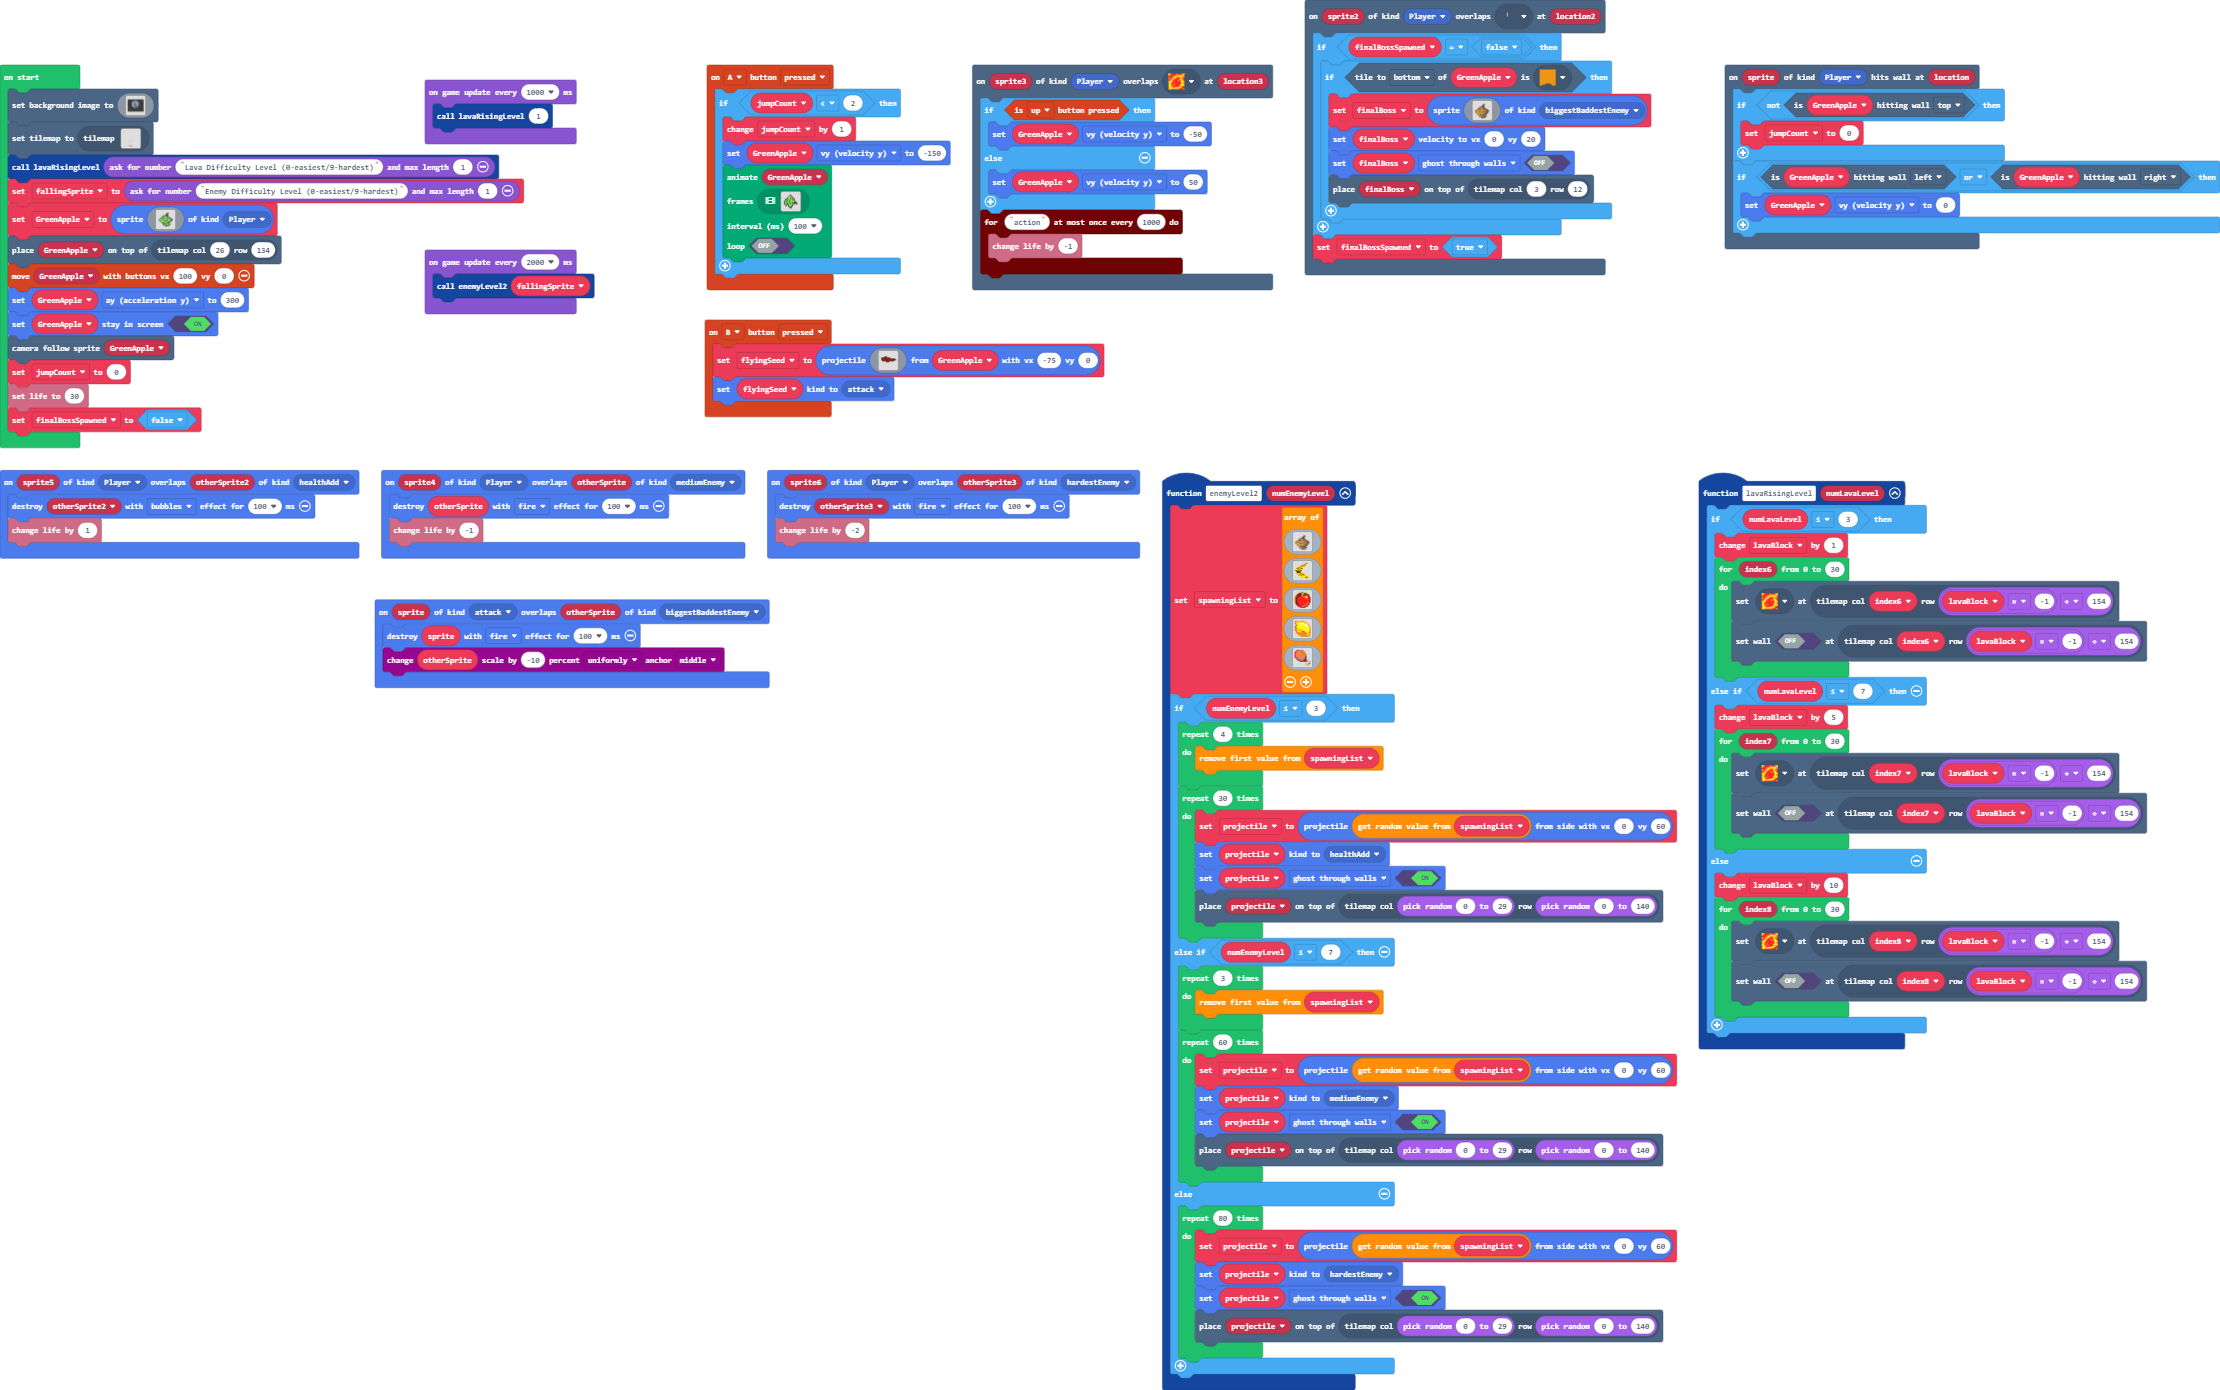
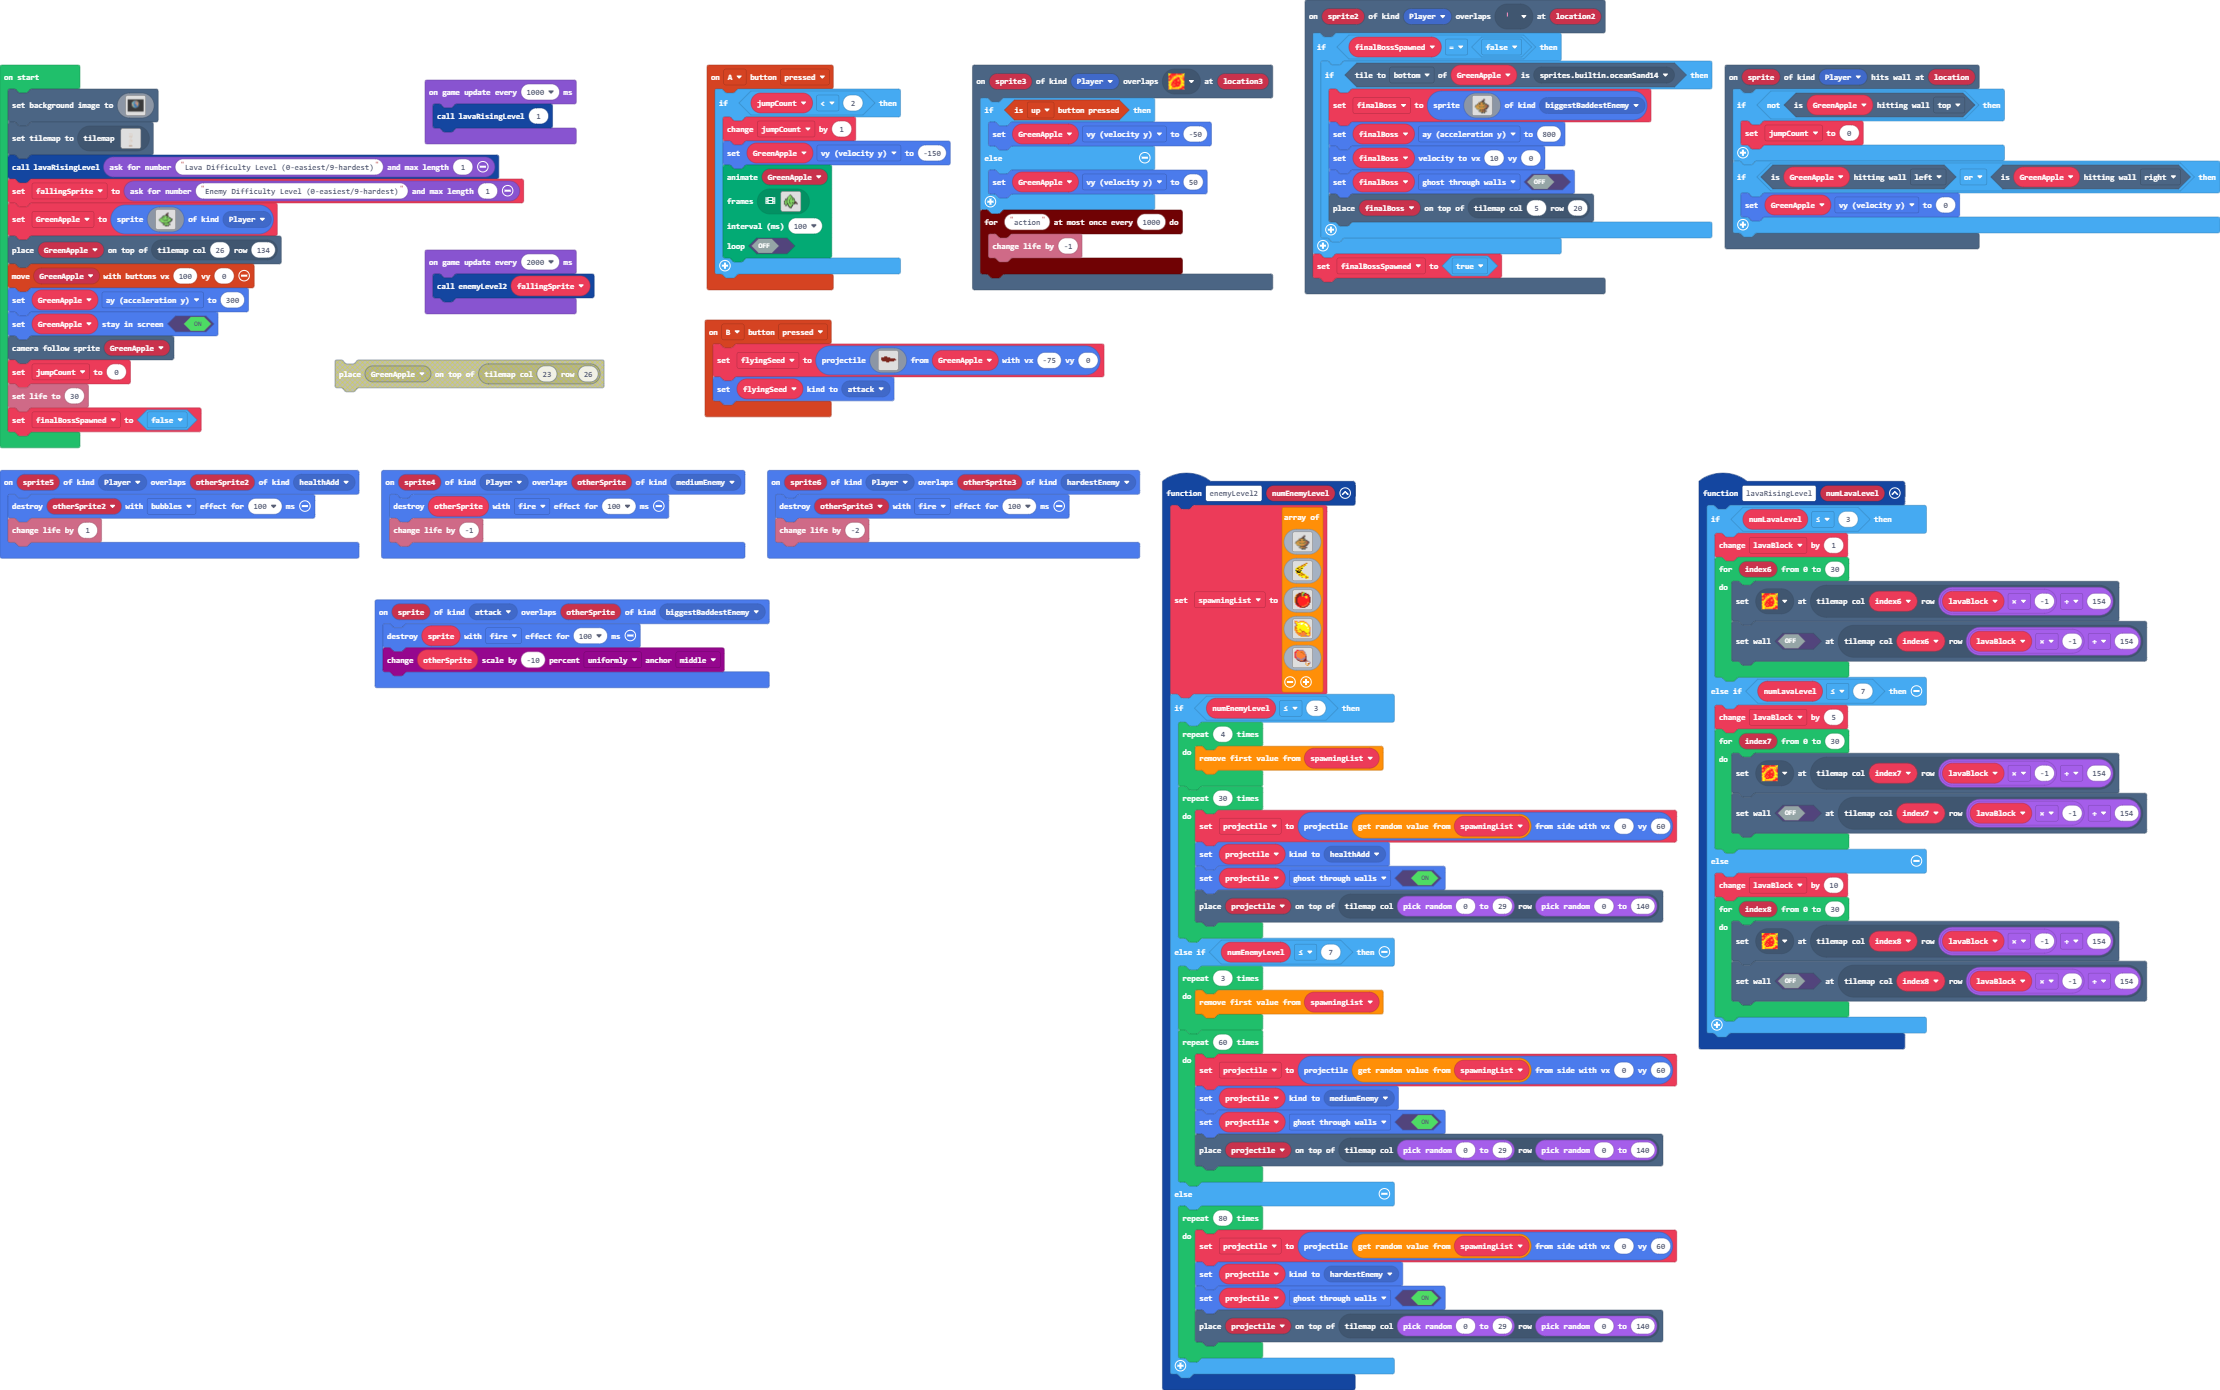
Update main.blocks, main.ts

Changed region(s): [[0.5905, 0.0309, 0.777, 0.2165], [0.1554, 0.2475, 0.2797, 0.2784]]

diff --git a/main.ts b/main.ts
@@ -275,9 +275,10 @@ scene.onOverlapTile(SpriteKind.Player, assets.tile`myTile`, function (sprite2, l
     if (finalBossSpawned == false) {
         if (GreenApple.tileKindAt(TileDirection.Bottom, sprites.builtin.oceanSand14)) {
             finalBoss = sprites.create(assets.image`archnemesis`, SpriteKind.biggestBaddestEnemy)
-            finalBoss.setVelocity(0, 20)
+            finalBoss.ay = 800
+            finalBoss.setVelocity(10, 0)
             finalBoss.setFlag(SpriteFlag.GhostThroughWalls, false)
-            tiles.placeOnTile(finalBoss, tiles.getTileLocation(3, 12))
+            tiles.placeOnTile(finalBoss, tiles.getTileLocation(5, 20))
         }
     }
     finalBossSpawned = true
